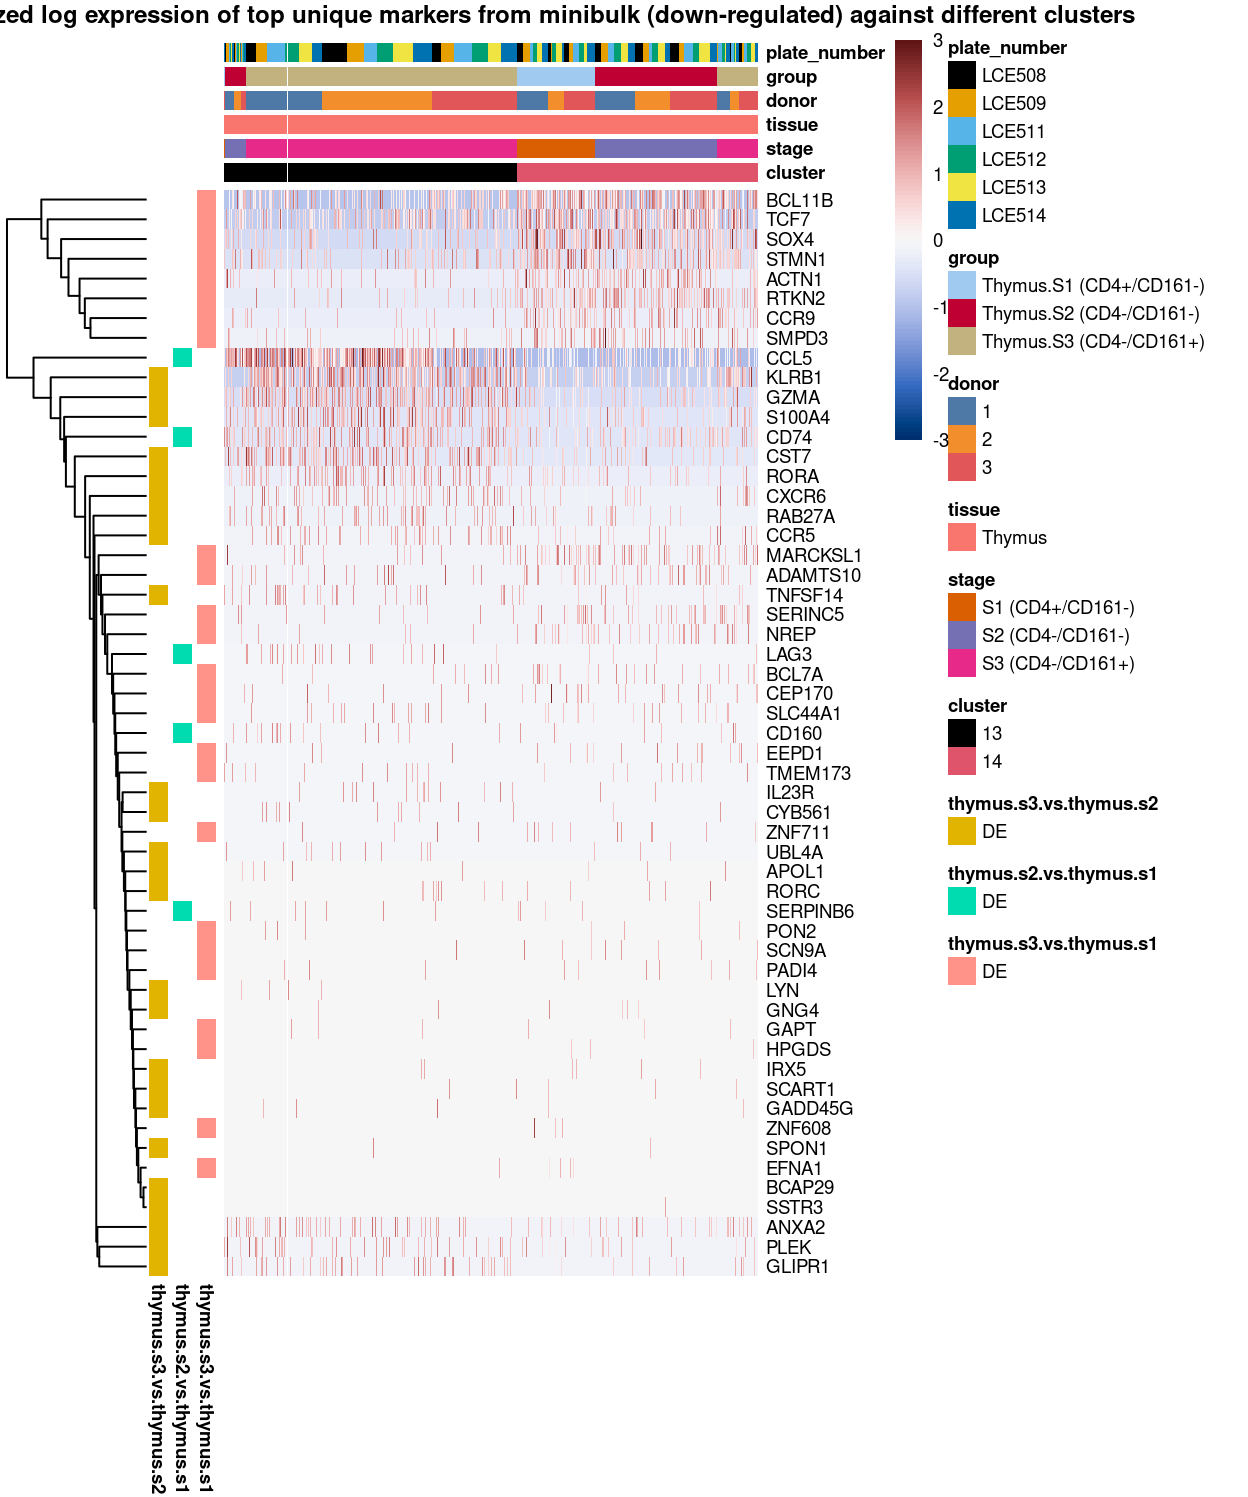
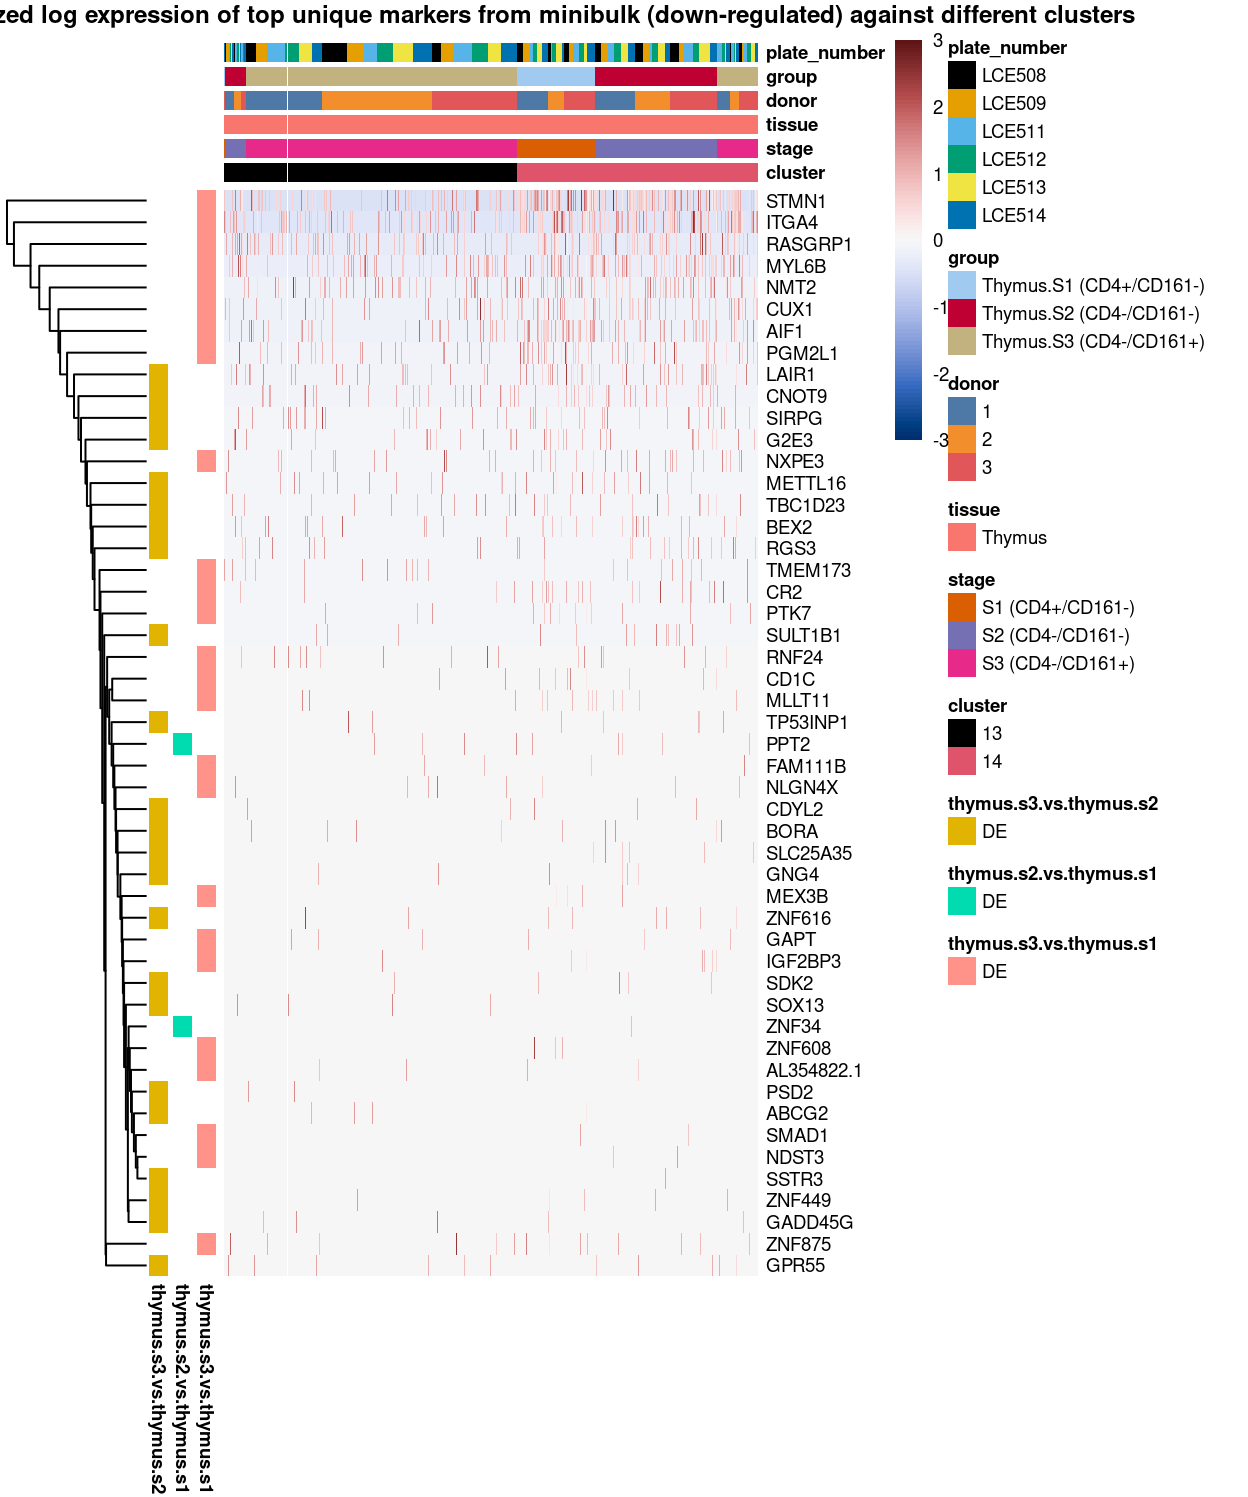
fix key typo in `thymus only` subset

diff --git a/docs/C094_Pellicci.single-cell.annotate.thymus_only.html b/docs/C094_Pellicci.single-cell.annotate.thymus_only.html
@@ -91,8 +91,8 @@ code span.wa { color: #5e5e5e; font-style: italic; } /* Warning */
 
 
   <!--  https://schema.org/Article -->
-  <meta property="article:published" itemprop="datePublished" content="2021-09-07"/>
-  <meta property="article:created" itemprop="dateCreated" content="2021-09-07"/>
+  <meta property="article:published" itemprop="datePublished" content="2021-09-08"/>
+  <meta property="article:created" itemprop="dateCreated" content="2021-09-08"/>
   <meta name="article:author" content="William Ho"/>
 
   <!--  https://developers.facebook.com/docs/sharing/webmasters#markup -->
@@ -111,7 +111,7 @@ code span.wa { color: #5e5e5e; font-style: italic; } /* Warning */
   <!--radix_placeholder_rmarkdown_metadata-->
 
   <script type="text/json" id="radix-rmarkdown-metadata">
-  {"type":"list","attributes":{"names":{"type":"character","attributes":{},"value":["title","description","author","date","editor_options","bibliography"]}},"value":[{"type":"character","attributes":{},"value":["Annotating Pellicci gamma-delta T-cell single-cell dataset (thymus only)"]},{"type":"NULL"},{"type":"list","attributes":{},"value":[{"type":"list","attributes":{"names":{"type":"character","attributes":{},"value":["name","affiliation","affiliation_url"]}},"value":[{"type":"character","attributes":{},"value":["William Ho"]},{"type":"character","attributes":{},"value":["Single Cell Open Research Endeavour (SCORE), WEHI"]},{"type":"character","attributes":{},"value":["https://www.wehi.edu.au/people/rory-bowden/4536/wehi-advanced-genomics-facility"]}]}]},{"type":"character","attributes":{},"value":["2021-09-07"]},{"type":"list","attributes":{"names":{"type":"character","attributes":{},"value":["chunk_output_type"]}},"value":[{"type":"character","attributes":{},"value":["console"]}]},{"type":"character","attributes":{},"value":["ref.bib"]}]}
+  {"type":"list","attributes":{"names":{"type":"character","attributes":{},"value":["title","description","author","date","editor_options","bibliography"]}},"value":[{"type":"character","attributes":{},"value":["Annotating Pellicci gamma-delta T-cell single-cell dataset (thymus only)"]},{"type":"NULL"},{"type":"list","attributes":{},"value":[{"type":"list","attributes":{"names":{"type":"character","attributes":{},"value":["name","affiliation","affiliation_url"]}},"value":[{"type":"character","attributes":{},"value":["William Ho"]},{"type":"character","attributes":{},"value":["Single Cell Open Research Endeavour (SCORE), WEHI"]},{"type":"character","attributes":{},"value":["https://www.wehi.edu.au/people/rory-bowden/4536/wehi-advanced-genomics-facility"]}]}]},{"type":"character","attributes":{},"value":["2021-09-08"]},{"type":"list","attributes":{"names":{"type":"character","attributes":{},"value":["chunk_output_type"]}},"value":[{"type":"character","attributes":{},"value":["console"]}]},{"type":"character","attributes":{},"value":["ref.bib"]}]}
   </script>
   <!--/radix_placeholder_rmarkdown_metadata-->
   <!--radix_placeholder_navigation_in_header-->
@@ -2058,7 +2058,7 @@ code span.wa { color: #5e5e5e; font-style: italic; } /* Warning */
 <!--radix_placeholder_front_matter-->
 
 <script id="distill-front-matter" type="text/json">
-{"title":"Annotating Pellicci gamma-delta T-cell single-cell dataset (thymus only)","authors":[{"author":"William Ho","authorURL":"#","affiliation":"Single Cell Open Research Endeavour (SCORE), WEHI","affiliationURL":"https://www.wehi.edu.au/people/rory-bowden/4536/wehi-advanced-genomics-facility","orcidID":""}],"publishedDate":"2021-09-07T00:00:00.000+10:00","citationText":"Ho, 2021"}
+{"title":"Annotating Pellicci gamma-delta T-cell single-cell dataset (thymus only)","authors":[{"author":"William Ho","authorURL":"#","affiliation":"Single Cell Open Research Endeavour (SCORE), WEHI","affiliationURL":"https://www.wehi.edu.au/people/rory-bowden/4536/wehi-advanced-genomics-facility","orcidID":""}],"publishedDate":"2021-09-08T00:00:00.000+10:00","citationText":"Ho, 2021"}
 </script>
 
 <!--/radix_placeholder_front_matter-->
@@ -2164,7 +2164,7 @@ Supplementary files
 <div class="d-byline">
   William Ho  (Single Cell Open Research Endeavour (SCORE), WEHI)<a href="https://www.wehi.edu.au/people/rory-bowden/4536/wehi-advanced-genomics-facility" class="uri">https://www.wehi.edu.au/people/rory-bowden/4536/wehi-advanced-genomics-facility</a>
   
-<br/>2021-09-07
+<br/>2021-09-08
 </div>
 
 <div class="d-article">
@@ -2759,12 +2759,12 @@ Show code
 <span class='va'>minibulkDEG.c</span> <span class='op'>&lt;-</span> <span class='va'>c</span><span class='op'>$</span><span class='va'>ENSEMBL.GENENAME</span><span class='op'>[</span><span class='va'>c</span><span class='op'>$</span><span class='va'>FDR</span><span class='op'>&lt;</span><span class='fl'>0.05</span><span class='op'>]</span>
 
 <span class='va'>minibulkDEG.a.up</span> <span class='op'>&lt;-</span> <span class='va'>a</span><span class='op'>$</span><span class='va'>ENSEMBL.GENENAME</span><span class='op'>[</span><span class='va'>a</span><span class='op'>$</span><span class='va'>FDR</span><span class='op'>&lt;</span><span class='fl'>0.05</span> <span class='op'>&amp;</span> <span class='va'>a</span><span class='op'>$</span><span class='va'>logFC</span><span class='op'>&gt;</span><span class='fl'>0</span><span class='op'>]</span>
-<span class='va'>minibulkDEG.b.up</span> <span class='op'>&lt;-</span> <span class='va'>b</span><span class='op'>$</span><span class='va'>ENSEMBL.GENENAME</span><span class='op'>[</span><span class='va'>b</span><span class='op'>$</span><span class='va'>FDR</span><span class='op'>&lt;</span><span class='fl'>0.05</span> <span class='op'>&amp;</span> <span class='va'>a</span><span class='op'>$</span><span class='va'>logFC</span><span class='op'>&gt;</span><span class='fl'>0</span><span class='op'>]</span>
-<span class='va'>minibulkDEG.c.up</span> <span class='op'>&lt;-</span> <span class='va'>c</span><span class='op'>$</span><span class='va'>ENSEMBL.GENENAME</span><span class='op'>[</span><span class='va'>c</span><span class='op'>$</span><span class='va'>FDR</span><span class='op'>&lt;</span><span class='fl'>0.05</span> <span class='op'>&amp;</span> <span class='va'>a</span><span class='op'>$</span><span class='va'>logFC</span><span class='op'>&gt;</span><span class='fl'>0</span><span class='op'>]</span>
+<span class='va'>minibulkDEG.b.up</span> <span class='op'>&lt;-</span> <span class='va'>b</span><span class='op'>$</span><span class='va'>ENSEMBL.GENENAME</span><span class='op'>[</span><span class='va'>b</span><span class='op'>$</span><span class='va'>FDR</span><span class='op'>&lt;</span><span class='fl'>0.05</span> <span class='op'>&amp;</span> <span class='va'>b</span><span class='op'>$</span><span class='va'>logFC</span><span class='op'>&gt;</span><span class='fl'>0</span><span class='op'>]</span>
+<span class='va'>minibulkDEG.c.up</span> <span class='op'>&lt;-</span> <span class='va'>c</span><span class='op'>$</span><span class='va'>ENSEMBL.GENENAME</span><span class='op'>[</span><span class='va'>c</span><span class='op'>$</span><span class='va'>FDR</span><span class='op'>&lt;</span><span class='fl'>0.05</span> <span class='op'>&amp;</span> <span class='va'>c</span><span class='op'>$</span><span class='va'>logFC</span><span class='op'>&gt;</span><span class='fl'>0</span><span class='op'>]</span>
 
 <span class='va'>minibulkDEG.a.down</span> <span class='op'>&lt;-</span> <span class='va'>a</span><span class='op'>$</span><span class='va'>ENSEMBL.GENENAME</span><span class='op'>[</span><span class='va'>a</span><span class='op'>$</span><span class='va'>FDR</span><span class='op'>&lt;</span><span class='fl'>0.05</span> <span class='op'>&amp;</span> <span class='va'>a</span><span class='op'>$</span><span class='va'>logFC</span><span class='op'>&lt;</span><span class='fl'>0</span><span class='op'>]</span>
-<span class='va'>minibulkDEG.b.down</span> <span class='op'>&lt;-</span> <span class='va'>b</span><span class='op'>$</span><span class='va'>ENSEMBL.GENENAME</span><span class='op'>[</span><span class='va'>b</span><span class='op'>$</span><span class='va'>FDR</span><span class='op'>&lt;</span><span class='fl'>0.05</span> <span class='op'>&amp;</span> <span class='va'>a</span><span class='op'>$</span><span class='va'>logFC</span><span class='op'>&lt;</span><span class='fl'>0</span><span class='op'>]</span>
-<span class='va'>minibulkDEG.c.down</span> <span class='op'>&lt;-</span> <span class='va'>c</span><span class='op'>$</span><span class='va'>ENSEMBL.GENENAME</span><span class='op'>[</span><span class='va'>c</span><span class='op'>$</span><span class='va'>FDR</span><span class='op'>&lt;</span><span class='fl'>0.05</span> <span class='op'>&amp;</span> <span class='va'>a</span><span class='op'>$</span><span class='va'>logFC</span><span class='op'>&lt;</span><span class='fl'>0</span><span class='op'>]</span>
+<span class='va'>minibulkDEG.b.down</span> <span class='op'>&lt;-</span> <span class='va'>b</span><span class='op'>$</span><span class='va'>ENSEMBL.GENENAME</span><span class='op'>[</span><span class='va'>b</span><span class='op'>$</span><span class='va'>FDR</span><span class='op'>&lt;</span><span class='fl'>0.05</span> <span class='op'>&amp;</span> <span class='va'>b</span><span class='op'>$</span><span class='va'>logFC</span><span class='op'>&lt;</span><span class='fl'>0</span><span class='op'>]</span>
+<span class='va'>minibulkDEG.c.down</span> <span class='op'>&lt;-</span> <span class='va'>c</span><span class='op'>$</span><span class='va'>ENSEMBL.GENENAME</span><span class='op'>[</span><span class='va'>c</span><span class='op'>$</span><span class='va'>FDR</span><span class='op'>&lt;</span><span class='fl'>0.05</span> <span class='op'>&amp;</span> <span class='va'>c</span><span class='op'>$</span><span class='va'>logFC</span><span class='op'>&lt;</span><span class='fl'>0</span><span class='op'>]</span>
 
 <span class='co'># keep only unique markers</span>
 <span class='va'>uniq.minibulkDEG.a</span> <span class='op'>&lt;-</span> <span class='fu'><a href='https://rdrr.io/r/base/funprog.html'>Reduce</a></span><span class='op'>(</span><span class='va'>setdiff</span>, <span class='fu'><a href='https://rdrr.io/r/base/list.html'>list</a></span><span class='op'>(</span><span class='va'>minibulkDEG.a</span>,
@@ -2832,7 +2832,7 @@ Show code
 </code></pre>
 </div>
 </details>
-<pre><code>[1] 255</code></pre>
+<pre><code>[1] 223</code></pre>
 <details>
 <summary>
 Show code
@@ -2842,7 +2842,7 @@ Show code
 </code></pre>
 </div>
 </details>
-<pre><code>[1] 4</code></pre>
+<pre><code>[1] 2</code></pre>
 <details>
 <summary>
 Show code
@@ -2852,7 +2852,7 @@ Show code
 </code></pre>
 </div>
 </details>
-<pre><code>[1] 71</code></pre>
+<pre><code>[1] 18</code></pre>
 <details>
 <summary>
 Show code
@@ -2862,7 +2862,7 @@ Show code
 </code></pre>
 </div>
 </details>
-<pre><code>[1] 341</code></pre>
+<pre><code>[1] 291</code></pre>
 <details>
 <summary>
 Show code
@@ -2872,7 +2872,7 @@ Show code
 </code></pre>
 </div>
 </details>
-<pre><code>[1] 5</code></pre>
+<pre><code>[1] 2</code></pre>
 <details>
 <summary>
 Show code
@@ -2882,7 +2882,7 @@ Show code
 </code></pre>
 </div>
 </details>
-<pre><code>[1] 47</code></pre>
+<pre><code>[1] 23</code></pre>
 <details>
 <summary>
 Show code
@@ -3362,9 +3362,9 @@ Show code
     thymus.s2.vs.thymus.s1 <span class='op'>=</span> <span class='fu'><a href='https://rdrr.io/r/base/factor.html'>factor</a></span><span class='op'>(</span><span class='fu'><a href='https://Rdatatable.gitlab.io/data.table/reference/fifelse.html'>ifelse</a></span><span class='op'>(</span><span class='va'>minibulk_markers_down</span> <span class='op'>%in%</span> <span class='va'>top.uniq.minibulkDEG.b.down</span>, <span class='st'>"DE"</span>, <span class='st'>"not DE"</span><span class='op'>)</span>, levels <span class='op'>=</span> <span class='fu'><a href='https://rdrr.io/r/base/c.html'>c</a></span><span class='op'>(</span><span class='st'>"DE"</span><span class='op'>)</span><span class='op'>)</span>,
     thymus.s3.vs.thymus.s2 <span class='op'>=</span> <span class='fu'><a href='https://rdrr.io/r/base/factor.html'>factor</a></span><span class='op'>(</span><span class='fu'><a href='https://Rdatatable.gitlab.io/data.table/reference/fifelse.html'>ifelse</a></span><span class='op'>(</span><span class='va'>minibulk_markers_down</span> <span class='op'>%in%</span> <span class='va'>top.uniq.minibulkDEG.c.down</span>, <span class='st'>"DE"</span>, <span class='st'>"not DE"</span><span class='op'>)</span>, levels <span class='op'>=</span> <span class='fu'><a href='https://rdrr.io/r/base/c.html'>c</a></span><span class='op'>(</span><span class='st'>"DE"</span><span class='op'>)</span><span class='op'>)</span>,
     row.names <span class='op'>=</span> <span class='va'>minibulk_markers_down</span><span class='op'>)</span>,
-  main <span class='op'>=</span> <span class='st'>"Row-normalized log expression of top unique markers from minibulk (down-regulated) against different grodowns"</span>,
+  main <span class='op'>=</span> <span class='st'>"Row-normalized log expression of top unique markers from minibulk (down-regulated) against different groups"</span>,
   column_annotation_colors <span class='op'>=</span> <span class='fu'><a href='https://rdrr.io/r/base/list.html'>list</a></span><span class='op'>(</span>
-    grodown <span class='op'>=</span> <span class='va'>group_colours</span>,
+    group <span class='op'>=</span> <span class='va'>group_colours</span>,
     stage <span class='op'>=</span> <span class='va'>stage_colours</span>,
     tissue <span class='op'>=</span> <span class='va'>tissue_colours</span>,
     donor <span class='op'>=</span> <span class='va'>donor_colours</span>,
@@ -3375,9 +3375,9 @@ Show code
 </div>
 </details>
 <div class="figure"><span id="fig:heat-minibulk-by-group-down"></span>
-<img src="C094_Pellicci.single-cell.annotate.thymus_only_files/heat-minibulk-by-group-down-1.png" alt="Heatmap of log-expression values in each sample for the marker genes (down-regulated) identified from the mini-bulk analysis. Cells are ordered by `grodown`. Each column is a sample, each row a gene. Colours are capped at -3 and 3 to preserve dynamic range." width="624" />
+<img src="C094_Pellicci.single-cell.annotate.thymus_only_files/heat-minibulk-by-group-down-1.png" alt="Heatmap of log-expression values in each sample for the marker genes (down-regulated) identified from the mini-bulk analysis. Cells are ordered by `group`. Each column is a sample, each row a gene. Colours are capped at -3 and 3 to preserve dynamic range." width="624" />
 <p class="caption">
-Figure 12: Heatmap of log-expression values in each sample for the marker genes (down-regulated) identified from the mini-bulk analysis. Cells are ordered by <code>grodown</code>. Each column is a sample, each row a gene. Colours are capped at -3 and 3 to preserve dynamic range.
+Figure 12: Heatmap of log-expression values in each sample for the marker genes (down-regulated) identified from the mini-bulk analysis. Cells are ordered by <code>group</code>. Each column is a sample, each row a gene. Colours are capped at -3 and 3 to preserve dynamic range.
 </p>
 </div>
 </div>
@@ -3417,9 +3417,9 @@ Show code
     thymus.s2.vs.thymus.s1 <span class='op'>=</span> <span class='fu'><a href='https://rdrr.io/r/base/factor.html'>factor</a></span><span class='op'>(</span><span class='fu'><a href='https://Rdatatable.gitlab.io/data.table/reference/fifelse.html'>ifelse</a></span><span class='op'>(</span><span class='va'>minibulk_markers_down</span> <span class='op'>%in%</span> <span class='va'>top.uniq.minibulkDEG.b.down</span>, <span class='st'>"DE"</span>, <span class='st'>"not DE"</span><span class='op'>)</span>, levels <span class='op'>=</span> <span class='fu'><a href='https://rdrr.io/r/base/c.html'>c</a></span><span class='op'>(</span><span class='st'>"DE"</span><span class='op'>)</span><span class='op'>)</span>,
     thymus.s3.vs.thymus.s2 <span class='op'>=</span> <span class='fu'><a href='https://rdrr.io/r/base/factor.html'>factor</a></span><span class='op'>(</span><span class='fu'><a href='https://Rdatatable.gitlab.io/data.table/reference/fifelse.html'>ifelse</a></span><span class='op'>(</span><span class='va'>minibulk_markers_down</span> <span class='op'>%in%</span> <span class='va'>top.uniq.minibulkDEG.c.down</span>, <span class='st'>"DE"</span>, <span class='st'>"not DE"</span><span class='op'>)</span>, levels <span class='op'>=</span> <span class='fu'><a href='https://rdrr.io/r/base/c.html'>c</a></span><span class='op'>(</span><span class='st'>"DE"</span><span class='op'>)</span><span class='op'>)</span>,
     row.names <span class='op'>=</span> <span class='va'>minibulk_markers_down</span><span class='op'>)</span>,
-  main <span class='op'>=</span> <span class='st'>"Row-normalized log expression of top unique markers from minibulk (down-regulated) against different grodowns (column-clustered)"</span>,
+  main <span class='op'>=</span> <span class='st'>"Row-normalized log expression of top unique markers from minibulk (down-regulated) against different groups (column-clustered)"</span>,
   column_annotation_colors <span class='op'>=</span> <span class='fu'><a href='https://rdrr.io/r/base/list.html'>list</a></span><span class='op'>(</span>
-    grodown <span class='op'>=</span> <span class='va'>group_colours</span>,
+    group <span class='op'>=</span> <span class='va'>group_colours</span>,
     stage <span class='op'>=</span> <span class='va'>stage_colours</span>,
     tissue <span class='op'>=</span> <span class='va'>tissue_colours</span>,
     donor <span class='op'>=</span> <span class='va'>donor_colours</span>,
@@ -3430,9 +3430,9 @@ Show code
 </div>
 </details>
 <div class="figure"><span id="fig:heat-minibulk-by-group-clustcol-down"></span>
-<img src="C094_Pellicci.single-cell.annotate.thymus_only_files/heat-minibulk-by-group-clustcol-down-1.png" alt="Heatmap of log-expression values in each sample for the marker genes (down-regulated) identified from the mini-bulk analysis. Cells are ordered by `grodown` (column-clustered). Each column is a sample, each row a gene. Colours are capped at -3 and 3 to preserve dynamic range." width="624" />
+<img src="C094_Pellicci.single-cell.annotate.thymus_only_files/heat-minibulk-by-group-clustcol-down-1.png" alt="Heatmap of log-expression values in each sample for the marker genes (down-regulated) identified from the mini-bulk analysis. Cells are ordered by `group` (column-clustered). Each column is a sample, each row a gene. Colours are capped at -3 and 3 to preserve dynamic range." width="624" />
 <p class="caption">
-Figure 13: Heatmap of log-expression values in each sample for the marker genes (down-regulated) identified from the mini-bulk analysis. Cells are ordered by <code>grodown</code> (column-clustered). Each column is a sample, each row a gene. Colours are capped at -3 and 3 to preserve dynamic range.
+Figure 13: Heatmap of log-expression values in each sample for the marker genes (down-regulated) identified from the mini-bulk analysis. Cells are ordered by <code>group</code> (column-clustered). Each column is a sample, each row a gene. Colours are capped at -3 and 3 to preserve dynamic range.
 </p>
 </div>
 </div>
@@ -3463,7 +3463,7 @@ Show code
  collate  en_US.UTF-8                 
  ctype    en_US.UTF-8                 
  tz       Australia/Melbourne         
- date     2021-09-07                  
+ date     2021-09-08                  
 
 ─ Packages ─────────────────────────────────────────────────────────
  ! package              * version  date       lib
@@ -3534,13 +3534,13 @@ Show code
  P jsonlite               1.7.2    2020-12-09 [?]
    knitr                  1.33     2021-04-24 [1]
  P labeling               0.4.2    2020-10-20 [?]
- P lattice                0.20-41  2020-04-02 [3]
+   lattice                0.20-41  2020-04-02 [2]
  P lifecycle              1.0.0    2021-02-15 [?]
  P limma                * 3.46.0   2020-10-27 [?]
  P locfit                 1.5-9.4  2020-03-25 [?]
  P lubridate              1.7.10   2021-02-26 [?]
  P magrittr             * 2.0.1    2020-11-17 [?]
- P Matrix                 1.2-18   2019-11-27 [3]
+   Matrix                 1.2-18   2019-11-27 [2]
  P MatrixGenerics       * 1.2.1    2021-01-30 [?]
  P matrixStats          * 0.58.0   2021-01-29 [?]
  P memoise                2.0.0    2021-01-26 [?]
@@ -3579,7 +3579,7 @@ Show code
    stringi                1.7.3    2021-07-16 [1]
  P stringr                1.4.0    2019-02-10 [?]
  P SummarizedExperiment * 1.20.0   2020-10-27 [?]
- P survival               3.2-7    2020-09-28 [3]
+   survival               3.2-7    2020-09-28 [2]
  P tibble                 3.1.0    2021-02-25 [?]
  P tidyr                * 1.1.3    2021-03-03 [?]
  P tidyselect             1.1.0    2020-05-11 [?]
@@ -3728,8 +3728,7 @@ Show code
  Bioconductor                            
 
 [1] /stornext/Home/data/allstaff/h/ho.w/C094_Pellicci/renv/library/R-4.0/x86_64-pc-linux-gnu
-[2] /tmp/RtmpEfHIyA/renv-system-library
-[3] /stornext/System/data/apps/R/R-4.0.3/lib64/R/library
+[2] /stornext/System/data/apps/R/R-4.0.3/lib64/R/library
 
  P ── Loaded and on-disk path mismatch.</code></pre>
 </div>
